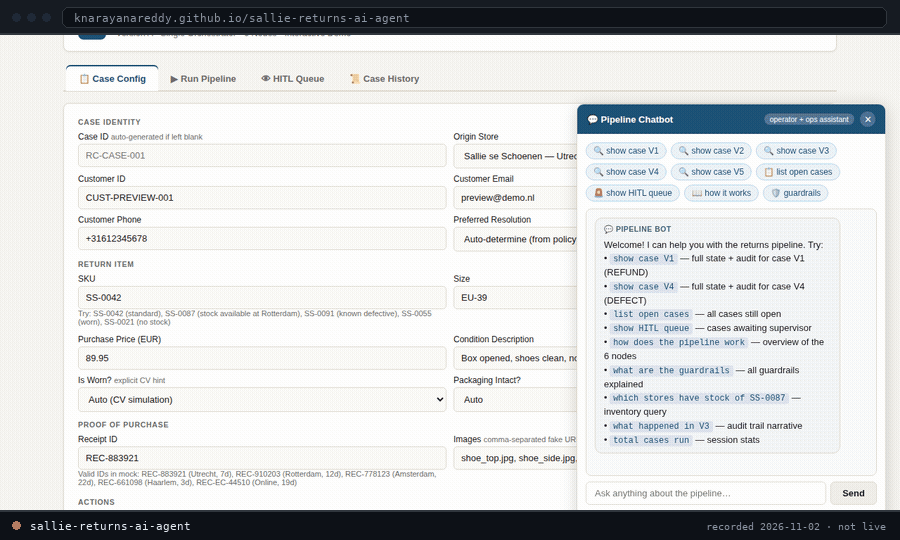
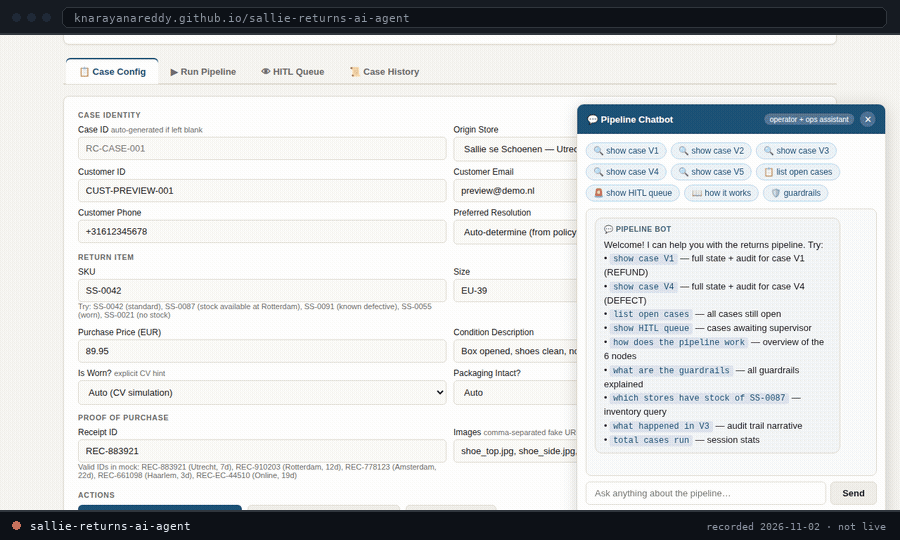
Make the cover step stand on its own
The CI failure was not the flag, which was already fixed. It was that the chrome
overlay lived in the per-reel scratch directory, and a normal run deletes that
directory when it finishes - so the separate `--posters` step had nothing to
paste, four hundred lines after the last reel it had helped build.

make_posters now draws the chrome itself when it is missing, which is what makes
it safe to run on a runner with Pillow and no browser. Verified by deleting the
scratch directory and running `--posters` alone: three covers, correct chrome.

diff --git a/scripts/build_reel.py b/scripts/build_reel.py
@@ -200,6 +200,12 @@ def make_posters() -> dict:
             continue
         # mid-reel, not frame zero: frame zero is a page that has not started
         # moving yet, and the cover of a demo should look like something happening
+        chrome = os.path.join(work_dir(repo), "chrome.png")
+        if not os.path.exists(chrome):
+            # A normal run deletes its scratch directory when it finishes, so the
+            # separate --posters step has to be able to draw the chrome itself.
+            chrome_png(chrome, info["url"], repo, info.get("recorded", ""))
+
         source = os.path.join(FRAMES, repo, frames[len(frames) // 3])
         cover = os.path.join(OUT, f"{repo}-cover.png")
         img = Image.open(source).convert("RGB")
@@ -212,7 +218,7 @@ def make_posters() -> dict:
             img = img.resize((WIDTH, HEIGHT), Image.LANCZOS)
         canvas = Image.new("RGB", (WIDTH, HEIGHT + BAR), "#0d1117")
         canvas.paste(img, (0, BAR))
-        chrome = Image.open(os.path.join(work_dir(repo), "chrome.png")).convert("RGBA")
+        chrome = Image.open(chrome).convert("RGBA")
         canvas.paste(chrome, (0, 0), chrome)
         canvas = canvas.convert("P", palette=Image.ADAPTIVE, colors=160)
         canvas.save(cover, optimize=True)
